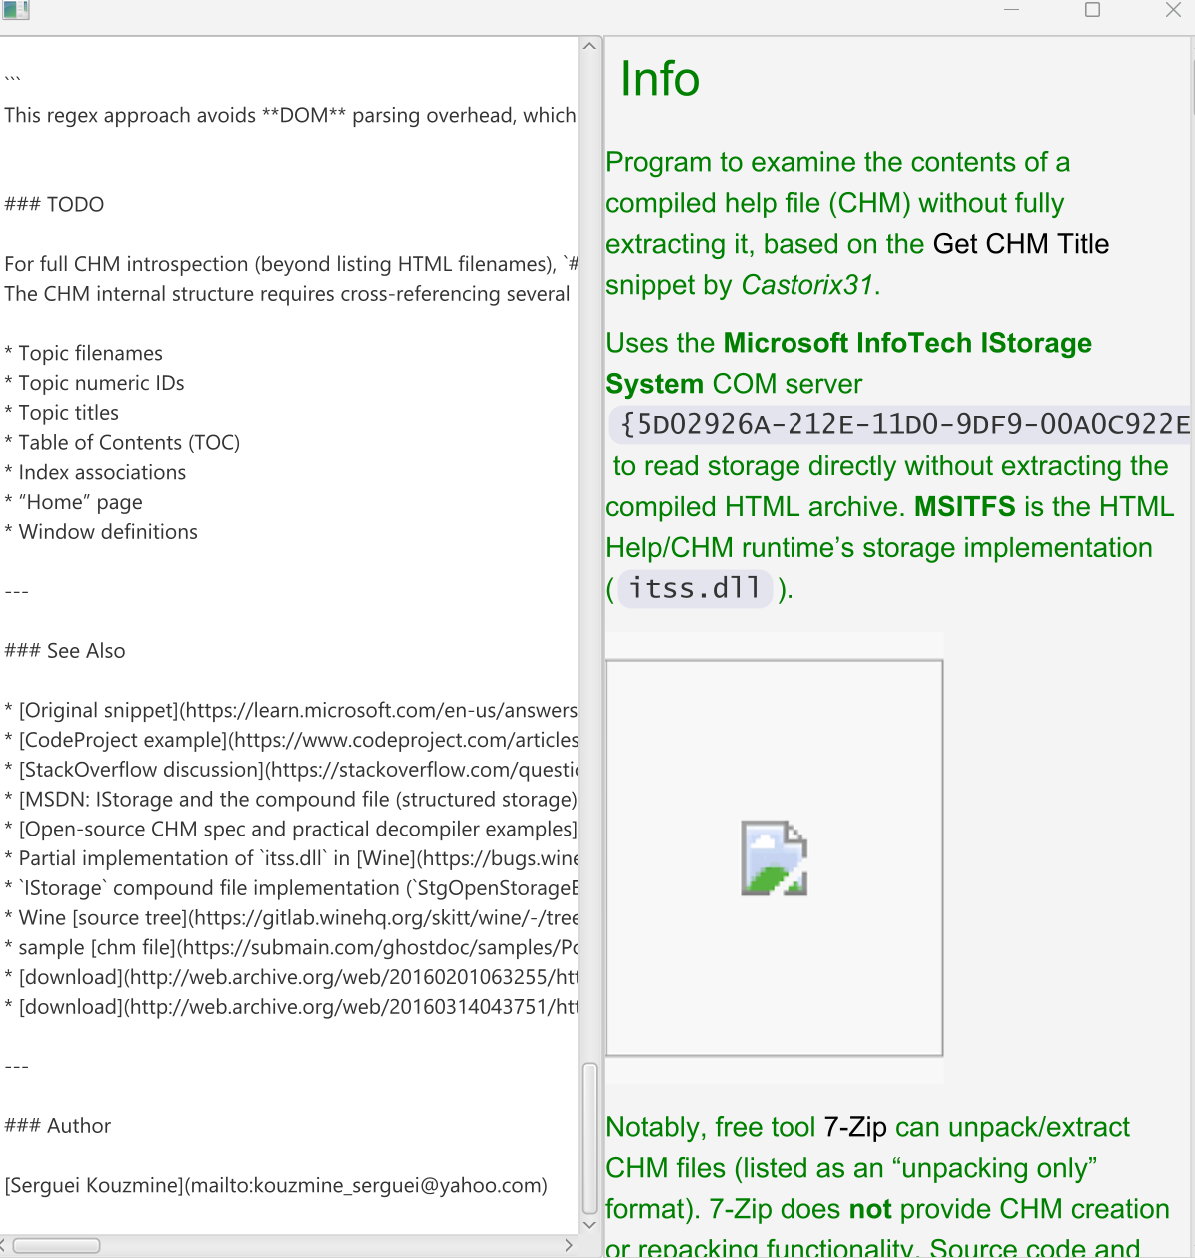
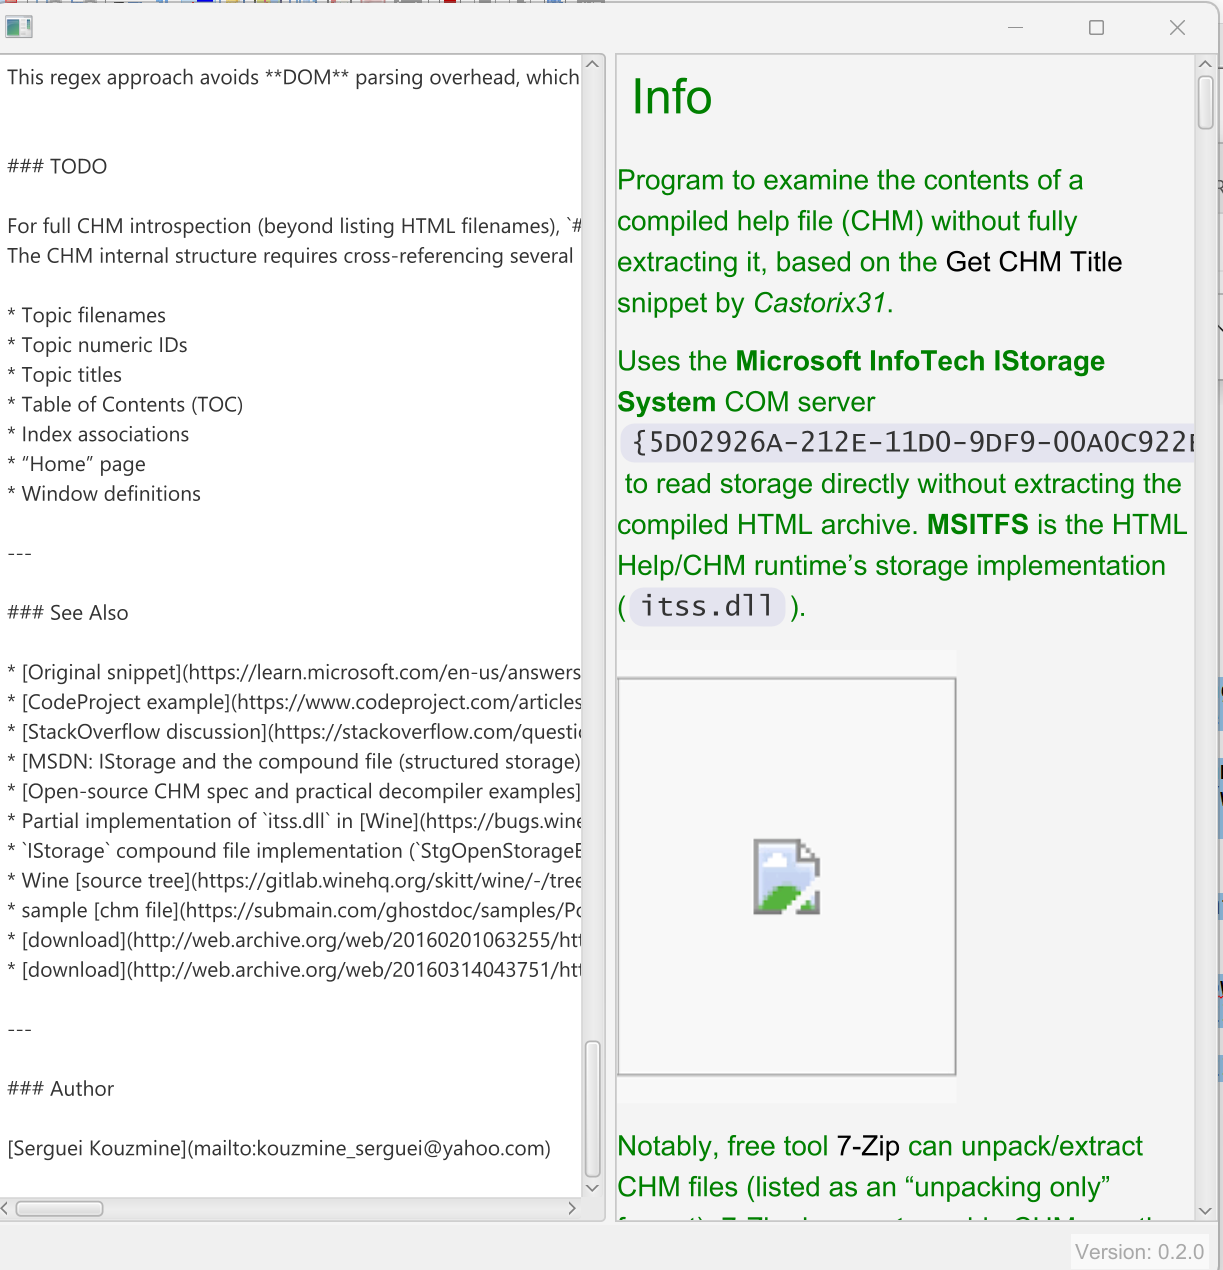
intermediate revision - added version vbox/hbox

Changed region(s): [[0.0, 0.0, 1.0, 1.0], [0.5883, 0.651, 0.6812, 0.744], [0.0, 0.9921, 0.0929, 1.0]]

diff --git a/javafx-markdown/src/main/java/example/Example.java b/javafx-markdown/src/main/java/example/Example.java
@@ -17,13 +17,12 @@ import javafx.scene.paint.Color;
 import javafx.scene.text.Font;
 import javafx.stage.Stage;
 
+import java.io.IOException;
 import java.io.InputStream;
-import java.io.InputStreamReader;
+import java.util.Properties;
 
 import org.apache.commons.io.IOUtils;
-import org.apache.commons.configuration2.Configuration;
-import org.apache.commons.configuration2.builder.fluent.Configurations;
-import org.apache.commons.configuration2.PropertiesConfiguration;
+
 import org.fxmisc.cssfx.CSSFX;
 
 @SuppressWarnings("restriction")
@@ -77,10 +76,20 @@ public class Example extends Application {
         // --- Bottom version label ---
         InputStream propStream = getClass().getResourceAsStream("/application.properties");
         
+        Properties properties = new Properties();
+        
+        try (InputStream input = Thread.currentThread()
+                .getContextClassLoader()
+                .getResourceAsStream("application.properties")) {
+            if (input != null) {
+            	properties.load(input);
+            }
+        } catch (IOException e) {
+            e.printStackTrace();
+        }
+        String version = properties.getProperty("version", "0.1.0");
 
-        Configurations configs = new Configurations();
-        PropertiesConfiguration config = configs.properties(getClass().getResource("/application.properties"));
-        String version = config.getString("version", "0.1.0");Label versionLabel = new Label(String.format("Version: %s", version));
+        Label versionLabel = new Label(String.format("Version: %s", version));
         versionLabel.setFont(Font.font("Arial", 12));
         versionLabel.setTextFill(Color.DARKGRAY);
         versionLabel.setStyle("-fx-background-color: rgba(255,255,255,0.6); -fx-padding: 2;");
